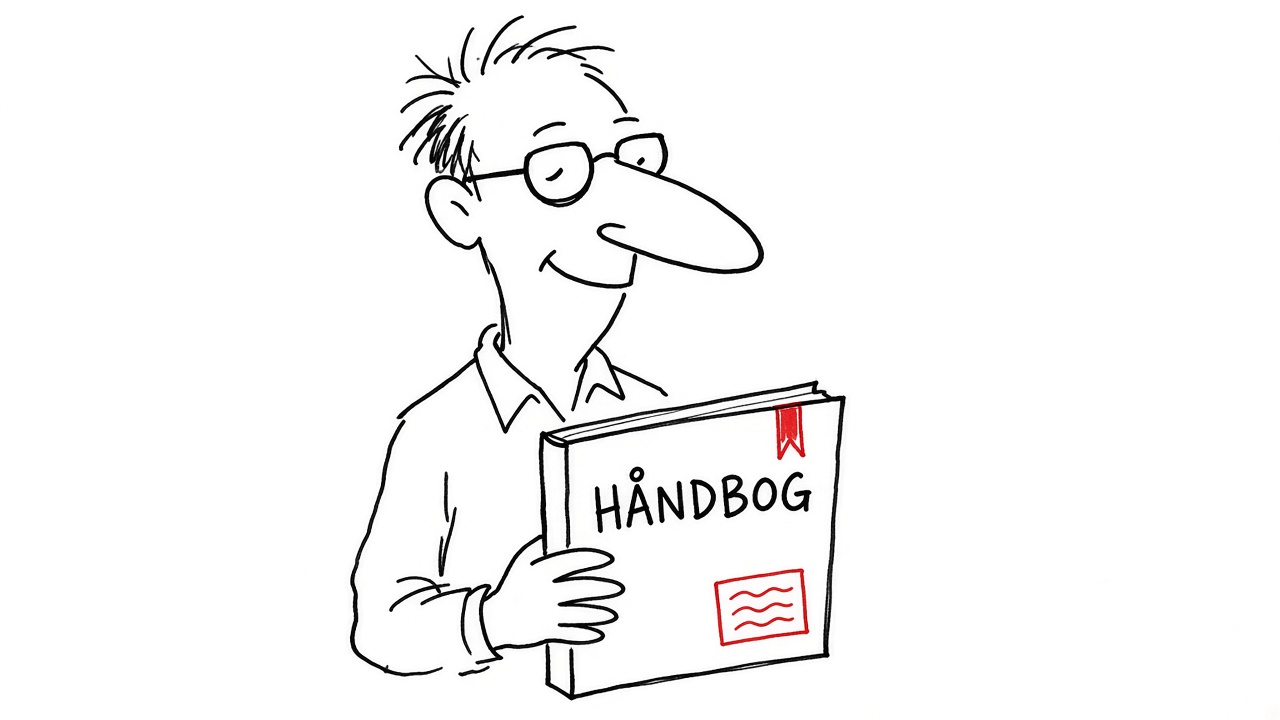
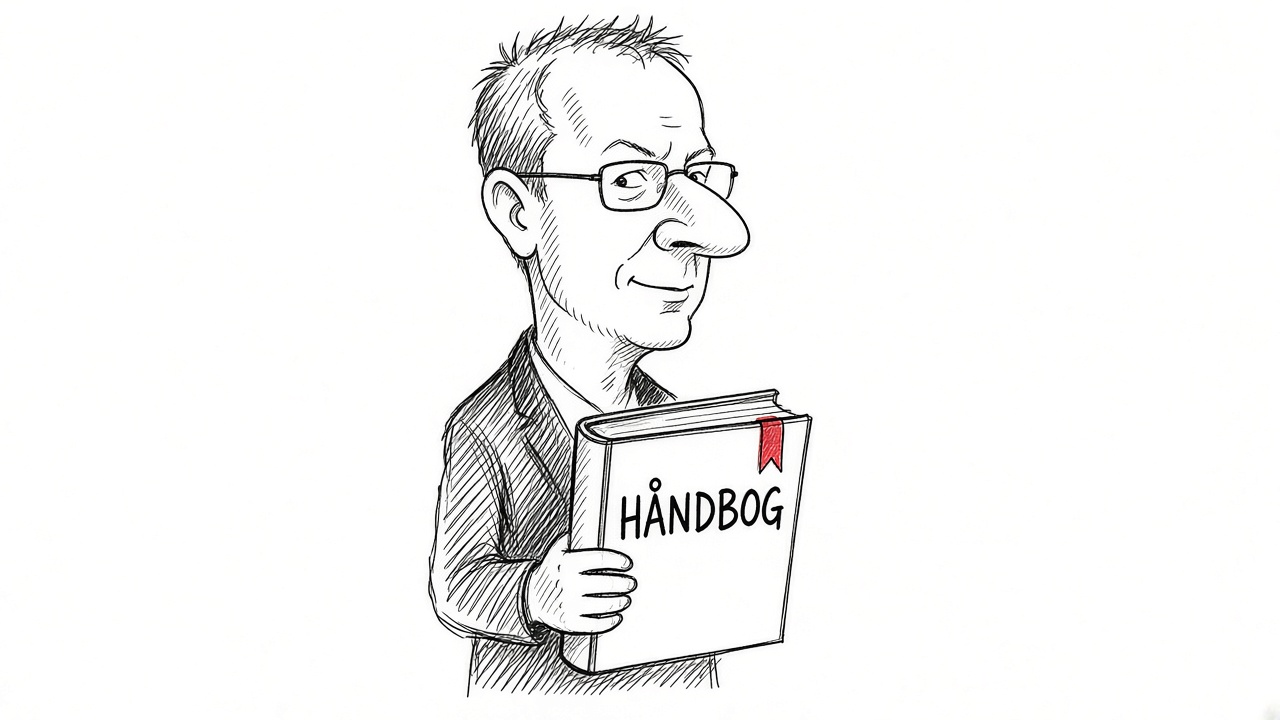
Bedre Langvad-karikatur som lead-illustration
Erstatter haandbog-langvad.jpg med skarpere likeness; kreditering
»Af Europaposten, karikatur«.

Changed region(s): [[0.2812, 0.0306, 0.6875, 0.9778], [0.25, 0.7639, 0.2812, 0.9167]]

diff --git a/content/artikler/2026-10-06-haandbog-eu-journalister-langvad.md b/content/artikler/2026-10-06-haandbog-eu-journalister-langvad.md
@@ -8,8 +8,8 @@ author: Europaposten-redaktionen
 summary: Håndbog i EU for journalister er udkommet i en ny, gratis udgave, som Bruxelles-journalisten Jacob Langvad har bearbejdet. Bogen opfordrer journalister på alle redaktioner til at dække EU. I bogen siger EU-kommissær Dan Jørgensen, at der kun er omkring 13 danske korrespondenter i Bruxelles.
 featured: nej
 illustration: haandbog-langvad.jpg
-illustration_alt: Karikatur af Jacob Langvad med briller og stor næse, der holder en håndbog med rød bogmærke-accent
-illustration_credit: Illustration: Europaposten (hurtig aviskarikatur)
+illustration_alt: Karikatur af Jacob Langvad med briller og stor næse, der holder håndbogen
+illustration_credit: Af Europaposten, karikatur
 draft: nej
 sources:
   - Håndbog i EU for journalister 2026 af Jacob Langvad og Andreas Marckmann Andreassen (gratis PDF, Dansk Journalistforbund og Europa-Kommissionen i Danmark) | https://denmark.representation.ec.europa.eu/document/download/4a7901f0-ccbe-4f74-8da3-d9e7c6756b81_da?filename=Presseguide%202026.pdf
